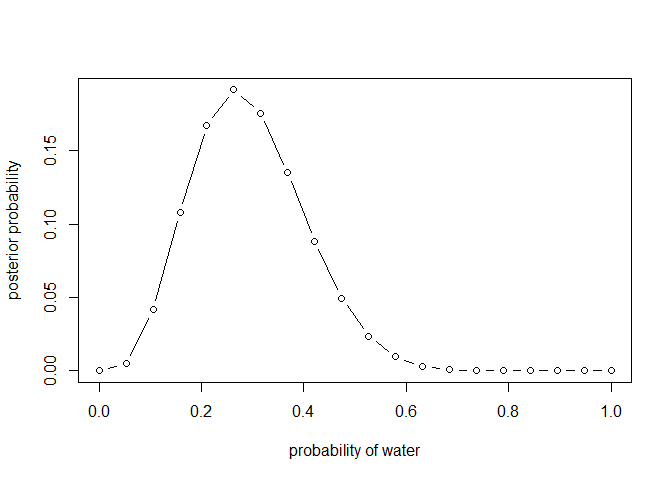
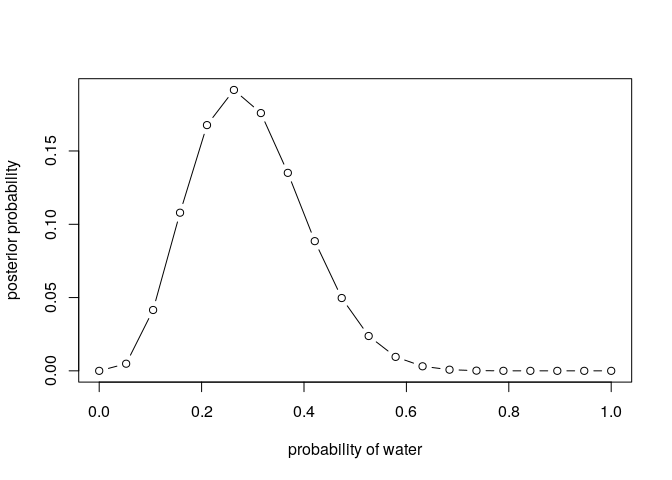
corrected week 1 homework

diff --git a/homework/week-01_Bella.md b/homework/week-01_Bella.md
@@ -14,8 +14,8 @@ different dataset, adjust the likelihood
 p_grid <- seq(from = 0, to = 1, length.out = 20)
 # define uniform prior 
 prior <- rep(1,20)
-# compute likelihood at each value in grid 
-likelihood <- dbinom(4, size = 15, prob = p_grid)
+# compute likelihood at each value in grid
+likelihood <- dbinom(4, size = 4+11, prob = p_grid)
 # compute likelihood of likelihood and prior 
 unstd.posterior <- likelihood * prior
 # standardize posterior 
@@ -27,6 +27,12 @@ plot(p_grid, posterior, type = "b",
 
 ![](week-01_Bella_files/figure-gfm/unnamed-chunk-1-1.png)<!-- -->
 
+``` r
+# sample 
+set.seed(100)
+samples <- sample(p_grid, prob = posterior, size = 10000, replace = T)
+```
+
 **Question 2:** Now suppose the data are 4 water and 2 land. Compute the
 posterior again but this time use a prior that is zero below *p* = 0.5
 and a constant above *p* = 0.5. This corresponds to prior information
@@ -37,8 +43,10 @@ that a majority of the Earth’s surface is water.
 p_grid <- seq(from = 0, to = 1, length.out = 20)
 # define new prior 
 newprior <- ifelse(p_grid < 0.5, 0, 1)
+# RICHARD's PRIOR - DISCUSS 
+prior <- c(rep(0,500), rep(1,500))
 # compute likelihood at each value in grid 
-likelihood <- dbinom(4, size = 6, prob = p_grid)
+likelihood <- dbinom(4, size = 4+2, prob = p_grid)
 # compute likelihood of likelihood and prior 
 unstd.posterior <- likelihood * newprior
 # standardize posterior 
@@ -49,6 +57,12 @@ plot(p_grid, posterior, type = "b",
 ```
 
 ![](week-01_Bella_files/figure-gfm/unnamed-chunk-2-1.png)<!-- -->
+
+``` r
+# sample 
+set.seed(100)
+samples2 <- sample(p_grid, prob = posterior, size = 1e4, replace = T)
+```
 
 **Question 3:** For the posterior distribution from question 2, compute
 89% percentile and HPDI intervals. Compare the widths of these
@@ -83,5 +97,54 @@ simulation tend to produce instead? Second, using a simulated sample of
 20 tosses, compute the unbiased posterior distribution of the true
 proportion of water.
 
-Response: There is a binomial response of 0 (land) and 1 (water) with a
-false-negative rate of 0.2 Pr(W\|N,*p*)
+NOTE: Checked Richard’s answers for this one.
+
+If there are 0.7/1 ways to sample water and 0.8/1 ways for water to be
+reported as water - there are 0.7 x 0.8 ways t observe water (garden
+multiplies independent events)
+
+``` r
+N <- 1e5
+set.seed(100)
+W <- rbinom(N, size = 20, prob = 0.7*0.8)
+mean(W/20) # biased expectation
+```
+
+    ## [1] 0.560283
+
+This is the biased expectation. Now estimate posterior distribution
+using grid approximation, accounting for biased sampling rate.
+
+``` r
+# simulate data 
+W <- rbinom(1, size=20, prob=0.7*0.8)
+
+# compute posterior 
+grid_p <- seq(from=0, to=1, len=100)
+pr_p <- dbeta(grid_p, 1, 1)
+prW <- dbinom(W, 20, grid_p*0.8)
+post <- prW*pr_p
+```
+
+Now calculate posterior ignoring bias and plot to compare.
+
+``` r
+# simulate data 
+W <- rbinom(1, size=20, prob=0.7*0.8)
+
+# compute posterior 
+grid_p <- seq(from=0, to=1, len=100)
+pr_p <- dbeta(grid_p, 1, 1)
+prW <- dbinom(W, 20, grid_p*0.8)
+post <- prW*pr_p
+
+# compute posterior ignoring bias
+post_bad <- dbinom(W, 20, grid_p)
+
+# plot
+plot(grid_p, post, type = "l", lwd=4,
+     xlab = "proportion water", ylab = "plausability")
+lines(grid_p, post_bad, col = 2, lwd = 4)
+```
+
+![](week-01_Bella_files/figure-gfm/unnamed-chunk-7-1.png)<!-- -->
